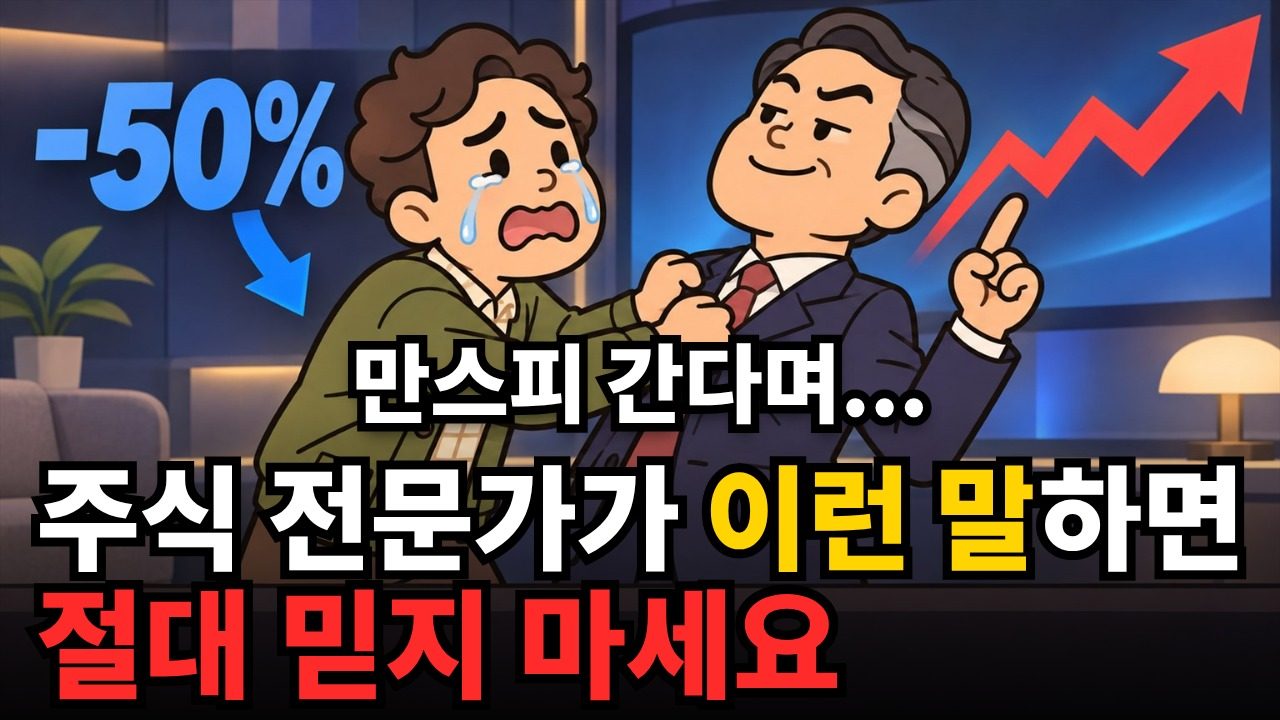
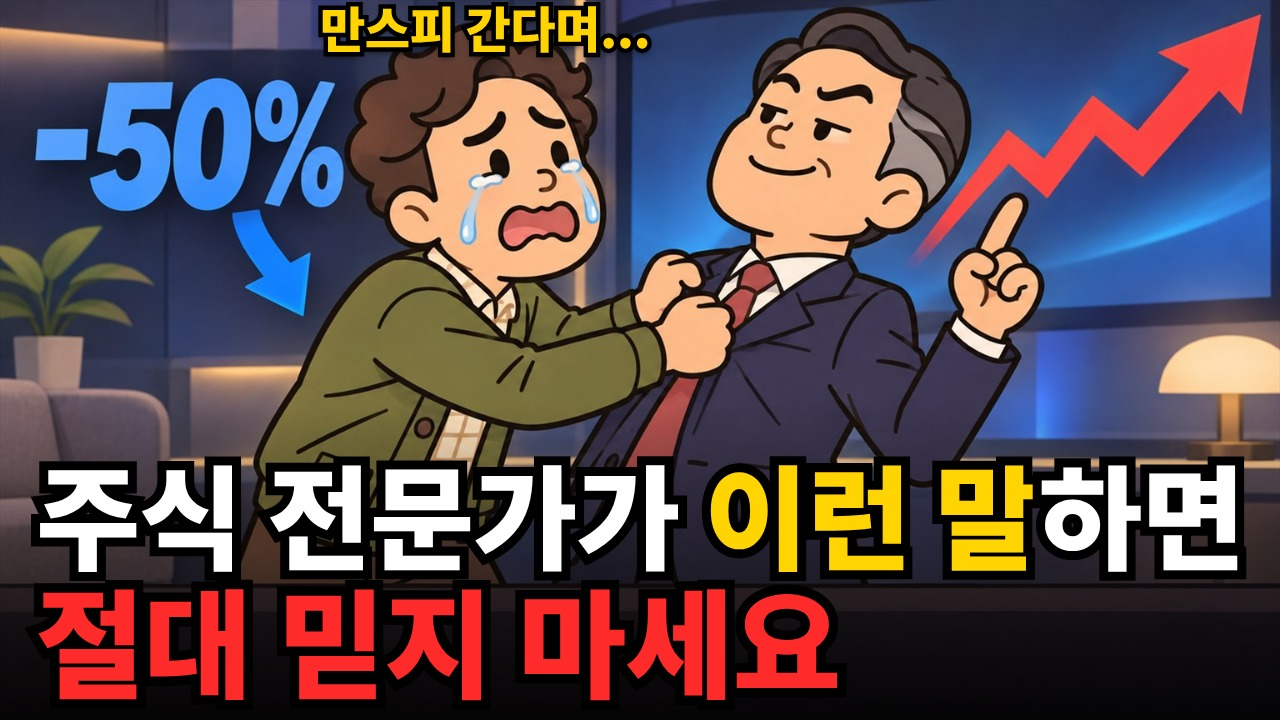
[stock] 만스피 편 롱폼 썸네일 — 캐릭터 문구를 머리 위에 작게 노랑으로 (사용자 지시)
Claude-Session: https://claude.ai/code/session_01PYG2Mpa9VxWz6vRTbxwQ5c

Changed region(s): [[0.25, 0.4583, 0.75, 0.6111], [0.25, 0.0, 0.5312, 0.0917]]

diff --git a/stock/source/manspi-jeonmang-2026-11/upload.md b/stock/source/manspi-jeonmang-2026-11/upload.md
@@ -83,7 +83,7 @@ python tools/srt_tool.py upload stock/source/manspi-jeonmang-2026-11/manspi-jeon
 | 항목 | 값 |
 |---|---|
 | 공개 상태 | 비공개로 올린 뒤 예약 공개 |
-| 썸네일 | `thumbnails/thumbnail_1.jpg` (1280×720 — 그림 `images/TH-CHAR.jpg` ChatGPT 캐릭터 + 문구 코드 `thumb.mjs`: '주식 전문가가 이런 말하면 / 절대 믿지 마세요' + 캐릭터 문구 '만스피 간다며...' (말풍선 없이 외곽선·그림자 강조 · 가운데) — 사용자 문구 2026-11-09) · ⚠ 그림 속 '-50%' 는 ChatGPT 가 그려 넣은 것 (대본 43.3%·44.5% 와 다름 — 사용자가 그대로 둠) |
+| 썸네일 | `thumbnails/thumbnail_1.jpg` (1280×720 — 그림 `images/TH-CHAR.jpg` ChatGPT 캐릭터 + 문구 코드 `thumb.mjs`: '주식 전문가가 이런 말하면 / 절대 믿지 마세요' + 캐릭터 문구 '만스피 간다며...' (말풍선 없이 노란 글자 + 외곽선·그림자 · 우는 인물 머리 위에 작게) — 사용자 문구 2026-11-09) · ⚠ 그림 속 '-50%' 는 ChatGPT 가 그려 넣은 것 (대본 43.3%·44.5% 와 다름 — 사용자가 그대로 둠) |
 | 자막 | `manspi-jeonmang-2026-11.srt` (오디오 뒤 `align-audio`) |
 | 카테고리 | 교육 |
 | 동영상 언어 · 기본 언어 | 한국어 · ko |
